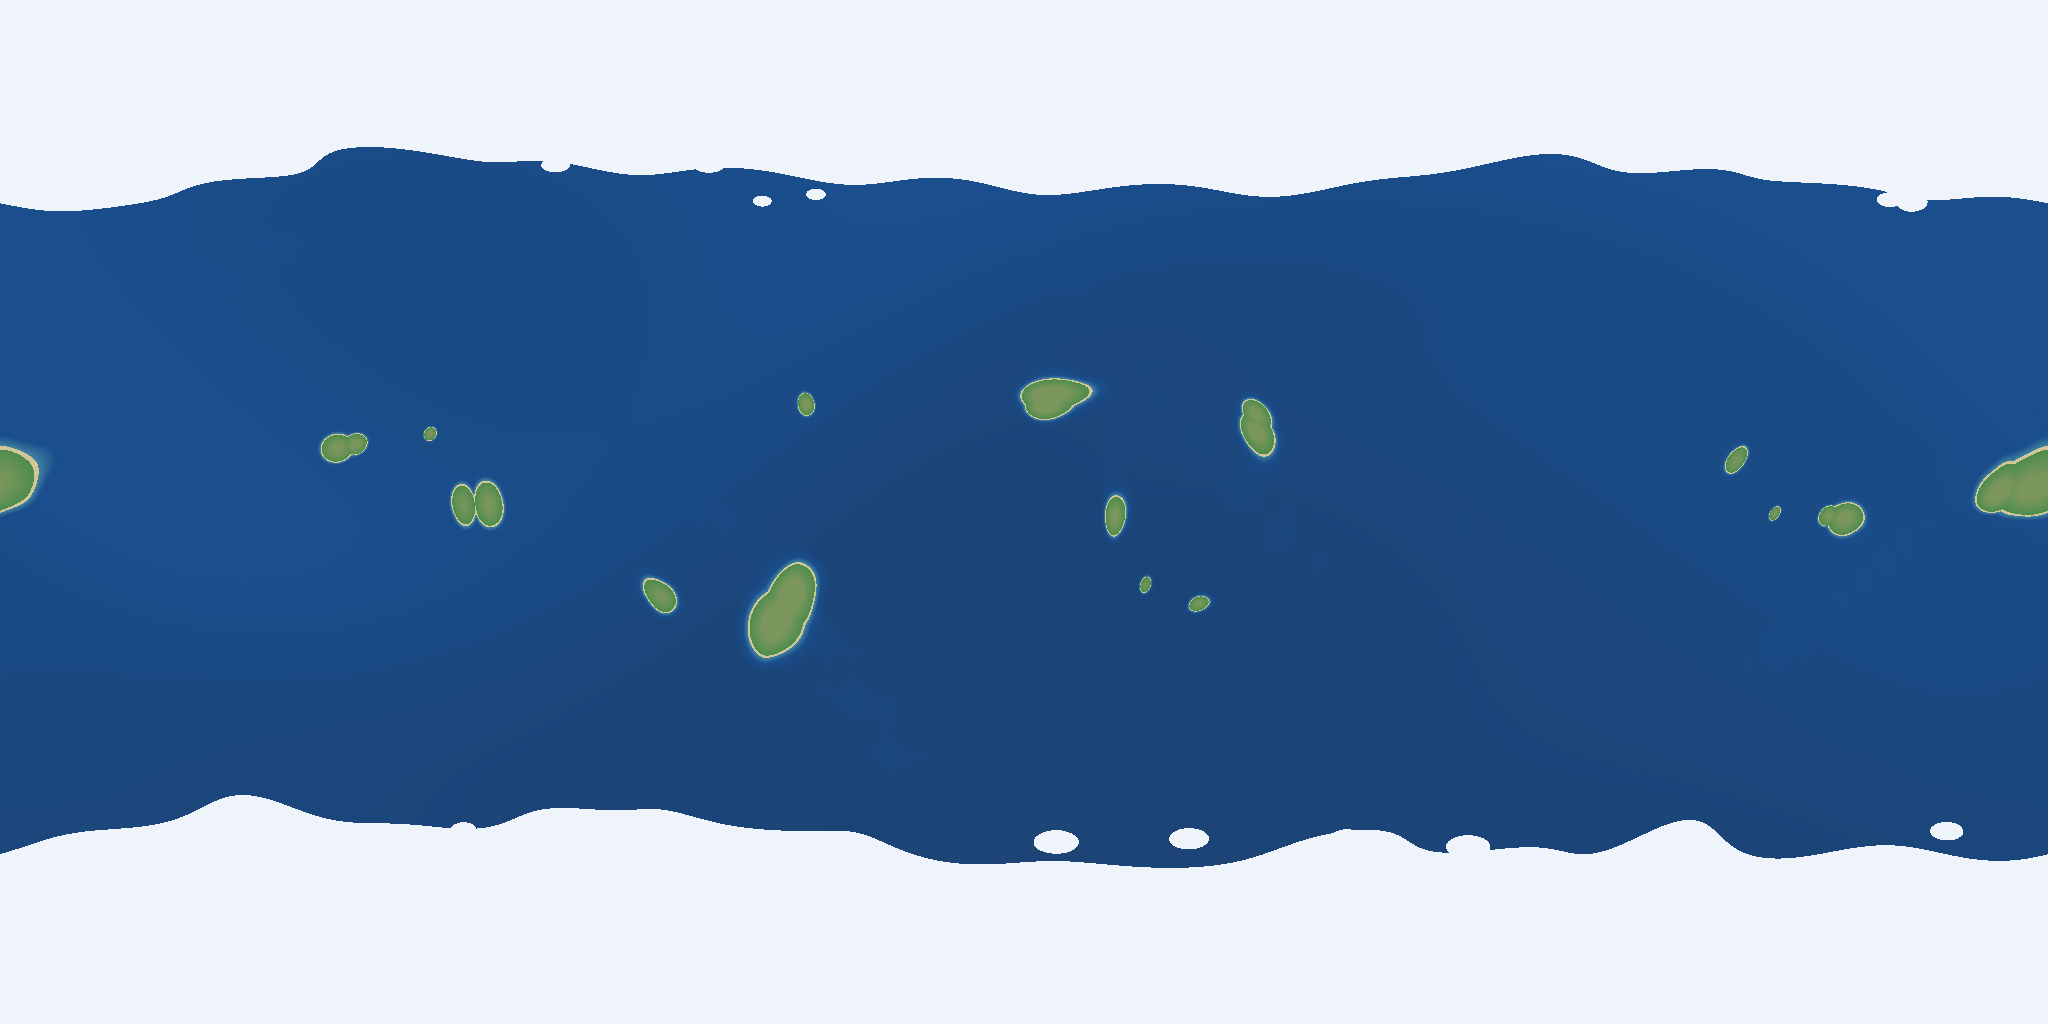
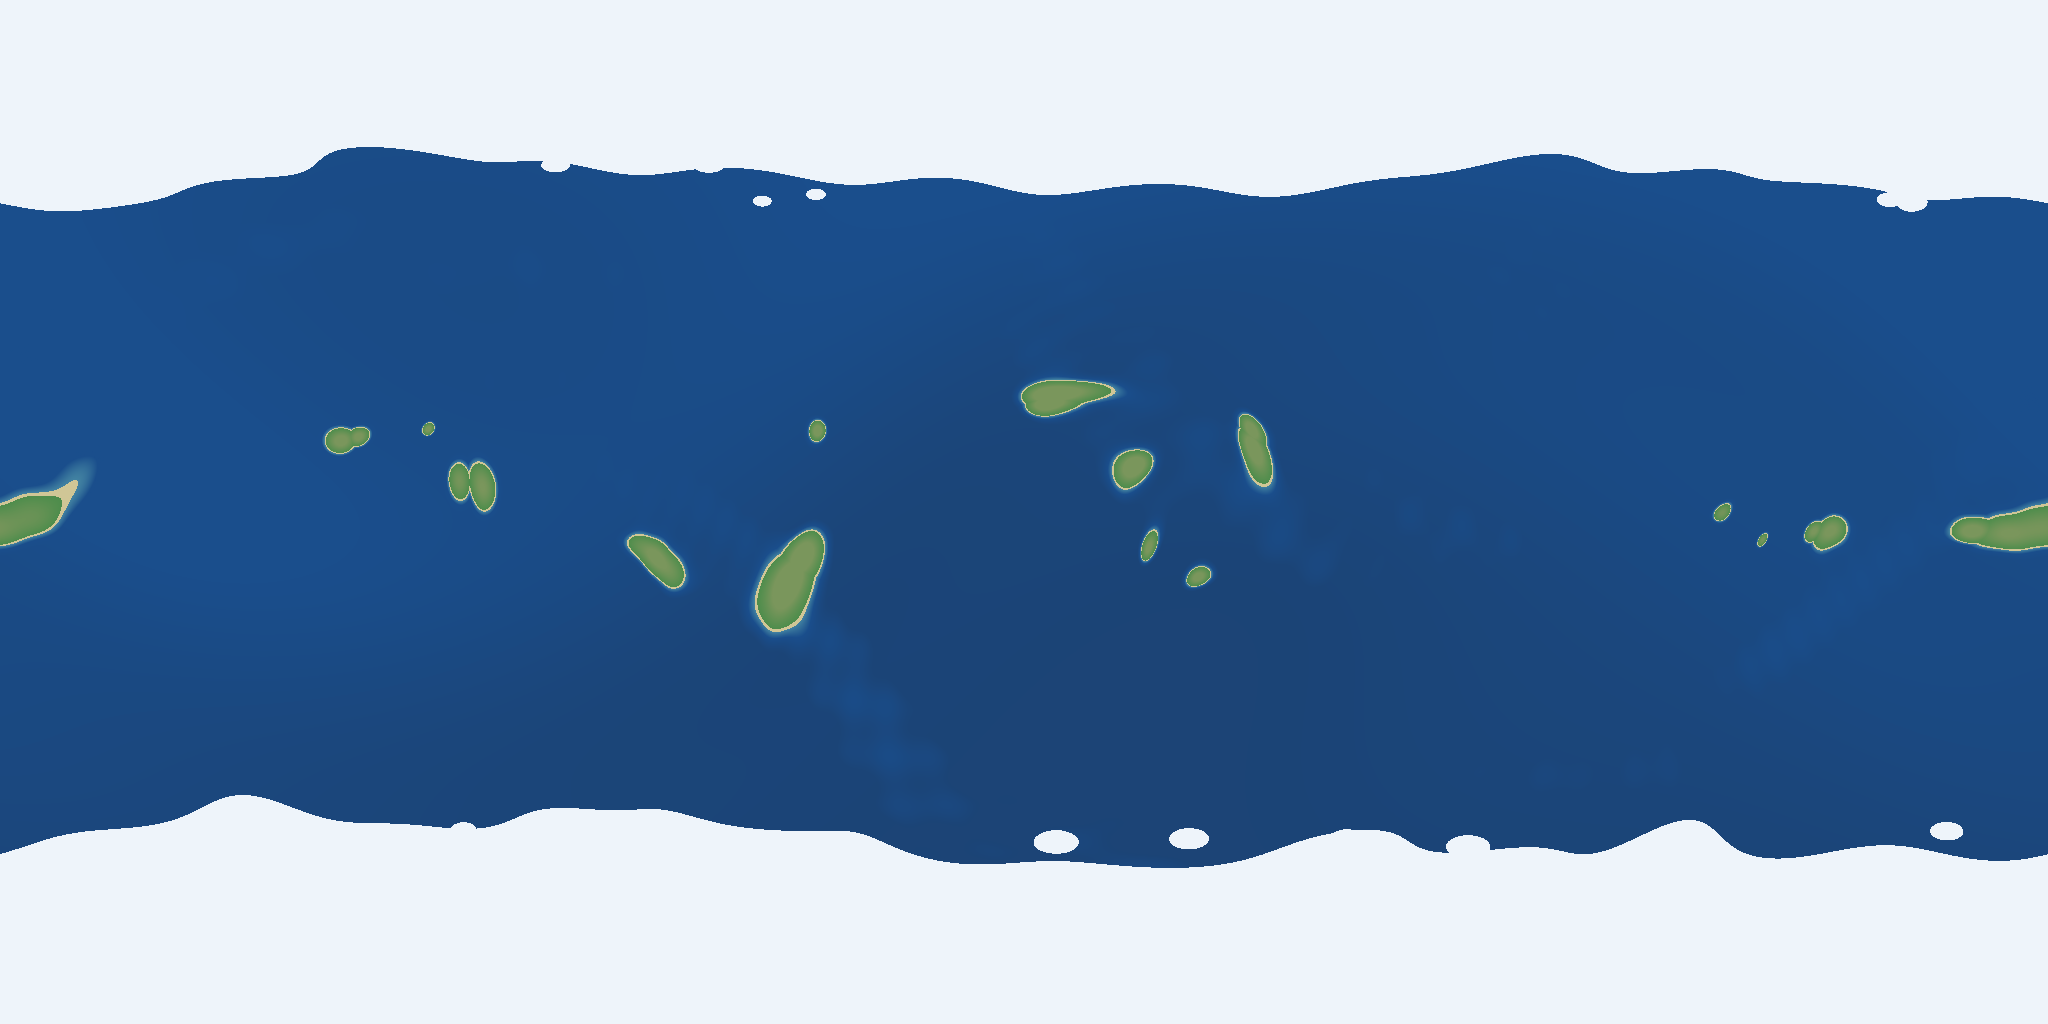
Globus: beide Pole sichtbar (tilt 0), Wolken-Backface-Culling (kein 2-Kugel-Effekt), Wolken kleiner/gestreuter, Inseln enger am Aequator, Drehung rechts->links

diff --git a/app.js b/app.js
@@ -41,15 +41,19 @@ function drawGlobe(ent) {
   g.rotateY(ent.spinAngle);
   g.sphere(R, 48, 36);
   g.pop();
-  // Wolken (eigene Drift, leicht groesserer Radius -> schweben ueber der Oberflaeche)
+  // Wolken (eigene Drift, knapp ueber der Oberflaeche). Backface-Culling -> nur vordere
+  // Haelfte, sonst scheint die transparente Rueckseite durch ("2 Kugeln"-Effekt).
   if (ent.cloudTex) {
+    const gl = g.drawingContext;
+    gl.enable(gl.CULL_FACE); gl.cullFace(gl.BACK);
     g.push();
     g.noStroke(); g.noLights();
     g.texture(ent.cloudTex);
     g.rotateX(ent.tilt);
     g.rotateY(ent.spinAngle + ent.cloudDrift);
-    g.sphere(R * 1.015, 48, 36);
+    g.sphere(R * 1.008, 48, 36);
     g.pop();
+    gl.disable(gl.CULL_FACE);
   }
 }
 let duck = 0;             // 0..1 Audio-Ducking + Bewegungs-Verlangsamung bei offenem Panel

diff --git a/tools/make_world_texture.py b/tools/make_world_texture.py
@@ -18,9 +18,9 @@ ISLAND_SPECS = [
     (3, 0.12, 0.16, 2),
     (8, 0.045, 0.075, 1),
 ]
-LAT_BAND = 0.31
-COAST_NOISE = 0.26
-WARP = 0.20
+LAT_BAND = 0.22        # enger -> Inseln staerker um den Aequator
+COAST_NOISE = 0.32     # mehr Kuesten-Fransigkeit (realistischer)
+WARP = 0.28            # staerkere organische Verformung
 LAND = 0.45
 SHELF = 0.30
 
@@ -28,8 +28,8 @@ ICE_LAT = 1.02         # niedriger -> groessere, klar sichtbare Polkappen (~58 G
 ICE_DYN = 0.16         # weniger Schwankung -> Kappe nicht zu loechrig
 N_FLOES = 16
 FLOE_R = (0.03, 0.06)
-CLOUD_COVER = 0.45
-CLOUD_ALPHA = 0.92     # max Deckkraft der separaten Wolkenschicht
+CLOUD_COVER = 0.24     # weniger Bedeckung -> kleinere, gestreute Wolken
+CLOUD_ALPHA = 0.80     # max Deckkraft der separaten Wolkenschicht
 
 C_SHOAL = np.array([ 66, 130, 162]) / 255
 C_SEA   = np.array([ 26,  78, 140]) / 255
@@ -162,8 +162,8 @@ col = np.clip(col, 0, 1)
 Image.fromarray((col * 255).astype(np.uint8), "RGB").save(OUTFILE)
 
 # Separate Wolkenschicht (RGBA: weiss + Alpha) -> zieht in app.js eigenstaendig ueber den Globus
-craw = fbm3(px, py, pz, 300, 5, 3) * 0.5 + 0.5
-cloud = smooth(craw, 1 - CLOUD_COVER, 1 - CLOUD_COVER + 0.18)
+craw = fbm3(px, py, pz, 300, 6, 5) * 0.5 + 0.5   # hoehere Frequenz -> kleinere Wolkenfetzen
+cloud = smooth(craw, 1 - CLOUD_COVER, 1 - CLOUD_COVER + 0.12)
 calpha = (cloud * CLOUD_ALPHA * 255).astype(np.uint8)
 white = np.full((H, W), 255, np.uint8)
 Image.fromarray(np.dstack([white, white, white, calpha]), "RGBA").save(CLOUDFILE)